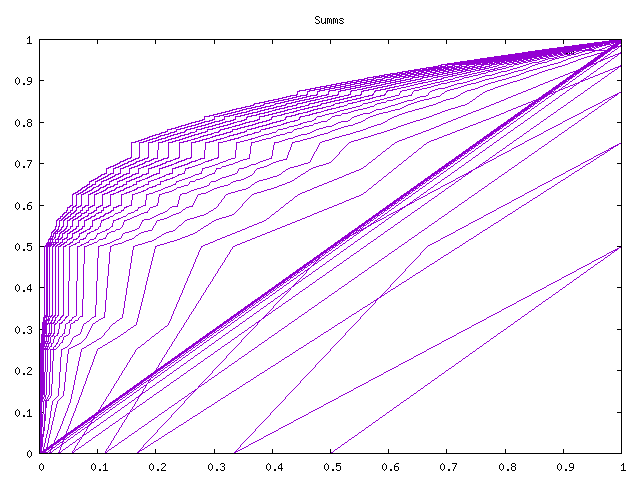
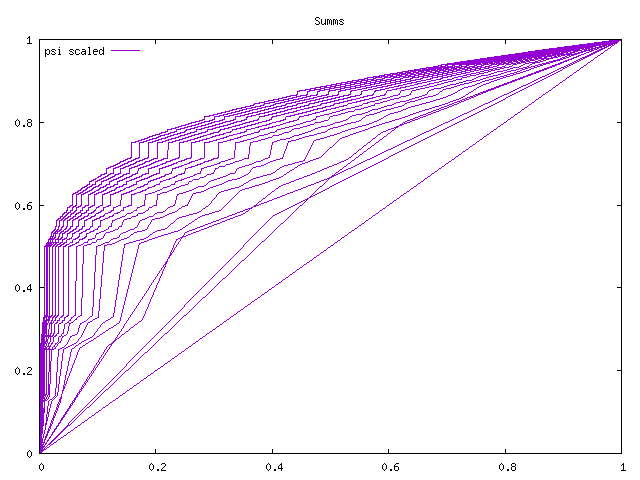
Start exploration of summatory function

diff --git a/experiments/beta-xform/irred-gold.c b/experiments/beta-xform/irred-gold.c
@@ -50,6 +50,7 @@ double find_zero(unsigned long n, double lo, double hi)
 /** Helper array, needed for finding gold midpoints. */
 static double* zero = NULL;
 static int* stopper = NULL;
+static int* summatory = NULL;
 static long maxidx = -2;
 void malloc_gold(long nmax)
 {
@@ -63,6 +64,8 @@ void malloc_gold(long nmax)
 	for (int i=0; i<=nmax; i++) zero[i] = -1.0;
 	stopper = (int*) malloc((nmax+1)*sizeof(int));
 	for (int i=0; i<=nmax; i++) stopper[i] = 0;
+	summatory = (int*) malloc((nmax+1)*sizeof(int));
+	for (int i=0; i<=nmax; i++) summatory[i] = 0;
 
 	// Allow valid memref to zero[-1] denoting beta=1.0
 	zero++;
@@ -179,6 +182,28 @@ long find_leader(long idx)
 }
 
 // =================================================================
+
+// Theta mask summatory function.
+// For any integer n, return the total number of valid indexes
+// below n. i.e. the sum of the mask bits below n.
+long theta_sum(long n)
+{
+	if (maxidx <= n) return -3;
+	if (n < -1L) return -2;
+	if (0 < summatory[n]) return summatory[n];
+
+	long idx = 1;
+	while (0 < summatory[idx]) idx++;
+
+	long cnt = summatory[idx-1];
+	while (idx <= n)
+	{
+		if (is_valid_index(idx)) cnt++;
+		summatory[idx] = cnt;
+		idx++;
+	}
+	return summatory[n];
+}
 
 // Return the n'th element of the "valid index sequence".
 // This is the sequence 1,2,3,4,6,7,8,10,12,13,14,15,16,24...

diff --git a/experiments/beta-xform/irred-viz.c b/experiments/beta-xform/irred-viz.c
@@ -23,7 +23,6 @@ int main(int argc, char* argv[])
 
 	int cnt = 0;
 	int allcnt = 0;
-	long psisum = 0;
 	int plen = 0;
 	int necklace = 1;
 
@@ -57,17 +56,22 @@ int main(int argc, char* argv[])
 		{
 			cnt ++;
 			allcnt ++;
-			psisum += n;
 
 			// Always the case that tord/2 <= n < tord
-			double frac = ((double) n) / ((double) tord);
-			frac = 2.0*(frac - 0.5); // rescale to run 0 to 1.
+			// double frac = ((double) n) / ((double) tord);
+			// double frac = ((double) n) / ((double) (tord-1));
+			double frac = ((double) n-1) / ((double) (tord-2));
+			double ordfrac = 2.0*(frac - 0.5); // rescale to run 0 to 1.
 
-			// OK, this should work.
-			double seqfrac = ((double) cnt) / ((double) necklace);
+			// First one is always zero, last is always one.
+			// So e.g. necklace is 9, this will give eight steps
+			double seqfrac = ((double) cnt-1) / ((double) necklace-1);
+			// double seqfrac = ((double) cnt) / ((double) necklace);
 
-			printf("%d	%d %d %d %g %g	%ld	%20.18g\n",
-				allcnt, cnt, n, tord, seqfrac, frac, psisum, gold);
+			double ska = ((double) allcnt) /  ((double) tord);
+
+			printf("%d	%d %d %d %g %g	%g	%20.18g\n",
+				allcnt, cnt, n, tord, seqfrac, ordfrac, ska, gold);
 		}
 	}
 }

diff --git a/experiments/beta-xform/irred-seek.c b/experiments/beta-xform/irred-seek.c
@@ -1,0 +1,42 @@
+/*
+ * irred-seek.c
+ *
+ * Exploration of sequence recursion.
+ *
+ * December 2023
+ */
+
+#include "irred-gold.c"
+
+double interp(double x, int ord)
+{
+	long scale = 1 << ord;
+	double frac = x * scale;
+	long ifrac = floor (frac);
+
+	long summit = theta_sum(ifrac);
+	double sum = summit;
+	sum /= scale;
+
+	return sum;
+}
+
+int main(int argc, char* argv[])
+{
+	int ord = atoi(argv[1]);
+	long nmax = 1 << ord;
+	malloc_gold(nmax);
+
+	int npts = 3*5*7*11;
+	npts = 11;
+	double delta = 1.0 / ((double) npts);
+	for (int i=0; i<npts; i++)
+	{
+		double x = (i+0.5) * delta;
+
+		double y = interp(x, ord);
+		printf("%d	%f	%f\n", i, x, y);
+	}
+}
+
+/* --------------------------- END OF LIFE ------------------------- */
